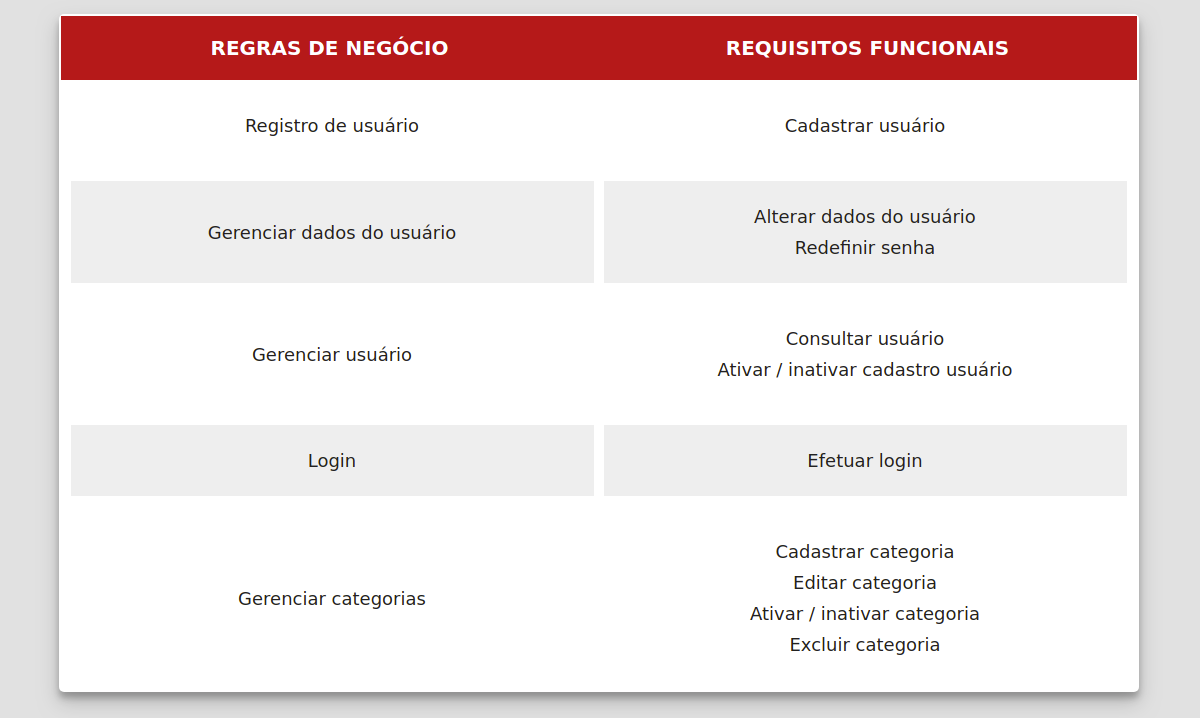
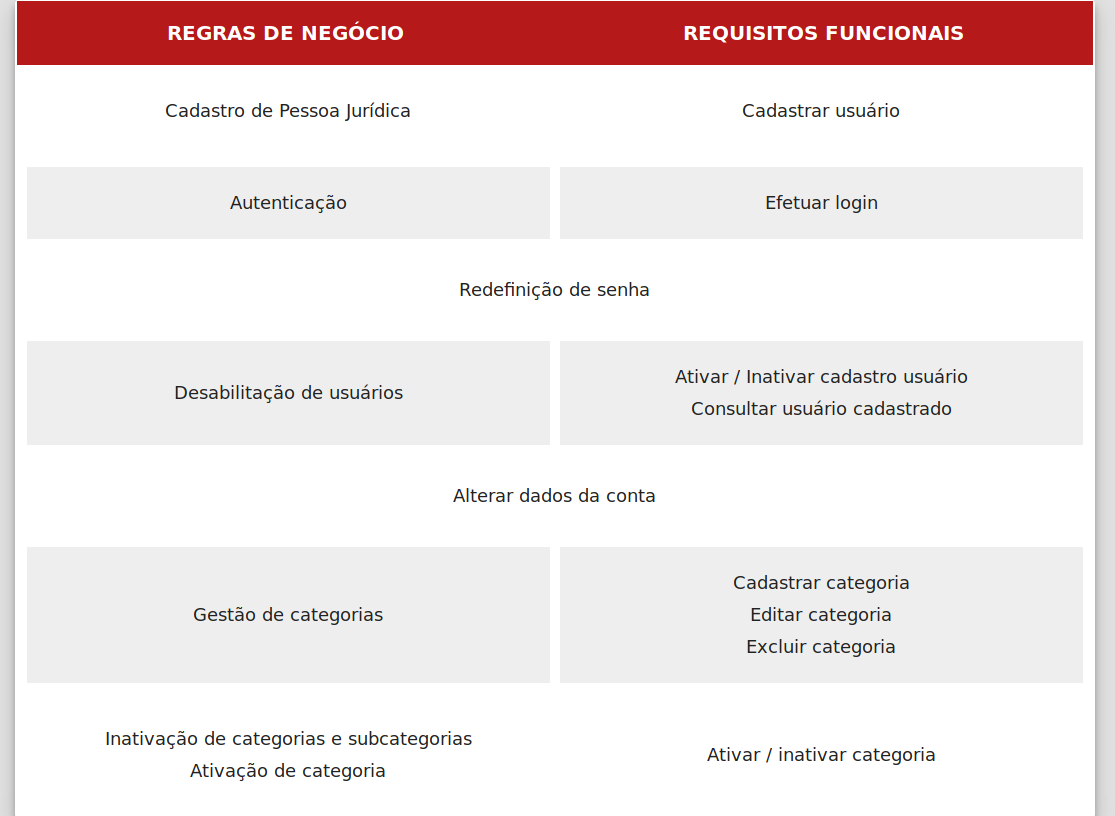
Finalizado apresentação

diff --git a/presentation/comparacao-rn-requisito/tabela-parte1.html b/presentation/comparacao-rn-requisito/tabela-parte1.html
@@ -24,42 +24,51 @@
     <tbody>
 
       <tr>
-        <td>Registro de usuário</td>
+        <td>Cadastro de Pessoa Jurídica</td>
         <td>
           <span>Cadastrar usuário</span>
         </td>
       </tr>
 
       <tr>
-        <td>Gerenciar dados do usuário</td>
-        <td>
-          <span>Alterar dados do usuário</span>
-          <span>Redefinir senha</span>
-        </td>
-      </tr>
-
-      <tr>
-        <td>Gerenciar usuário</td>
-        <td>
-          <span>Consultar usuário</span>
-          <span>Ativar / inativar cadastro usuário</span>
-        </td>
-      </tr>
-
-      <tr>
-        <td>Login</td>
+        <td>Autenticação</td>
         <td>
           <span>Efetuar login</span>
         </td>
       </tr>
 
       <tr>
-        <td>Gerenciar categorias</td>
+        <td>Redefinição de senha</td>
+      </tr>
+
+      <tr>
+        <td>Desabilitação de usuários</td>
+        <td>
+          <span>Ativar / Inativar cadastro usuário</span>
+          <span>Consultar usuário cadastrado</span>
+        </td>
+      </tr>
+
+      <tr>
+        <td>Alterar dados da conta</td>
+      </tr>
+
+      <tr>
+        <td>Gestão de categorias</td>
         <td>
           <span>Cadastrar categoria</span>
           <span>Editar categoria</span>
-          <span>Ativar / inativar categoria</span>
           <span>Excluir categoria</span>
+        </td>
+      </tr>
+
+      <tr>
+        <td>
+          <span>Inativação de categorias e subcategorias</span>
+          <span>Ativação de categoria</span>
+        </td>
+        <td>
+          <span>Ativar / inativar categoria</span>
         </td>
       </tr>
     </tbody>

diff --git a/presentation/comparacao-rn-requisito/tabela-parte2.html b/presentation/comparacao-rn-requisito/tabela-parte2.html
@@ -24,14 +24,20 @@
     <tbody>
 
       <tr>
-        <td>Gerenciar produtos</td>
+        <td>
+          <span>Cadastro de produto com ou sem vínculo a um mostruário</span>
+          <span>Reajuste de precificação do mostruário</span>
+        </td>
         <td>
           <span>Cadastrar produto</span>
         </td>
       </tr>
 
       <tr>
-        <td>Gerenciar estoque</td>
+        <td>
+          <span>Reajuste de precificação do mostruário</span>
+          <span>Gestão dos produtos em estoque</span>
+        </td>
         <td>
           <span>Editar produto</span>
         </td>
@@ -45,11 +51,19 @@
       </tr>
 
       <tr>
-        <td>Gerenciar pedido de compra em criação</td>
         <td>
-          <span>Editar pedido de compra</span>
-          <span>Descartar pedido de compra</span>
+          <span>Gestão pedido de compra em criação</span>
+          <span>Fornecedores encontrados do pedido de compra</span>
+          <span>Visibilidade das cotações do pedido de compra</span>
+          <span>Prazos dos pedidos de compra</span>
         </td>
+        <td>
+          Editar pedido de compra
+        </td>
+      </tr>
+
+      <tr>
+        <td colspan="2">Descartar pedido de compra</td>
       </tr>
     </tbody>
   </table>

diff --git a/presentation/comparacao-rn-requisito/tabela-parte3.html b/presentation/comparacao-rn-requisito/tabela-parte3.html
@@ -27,7 +27,7 @@
       </tr>
 
       <tr>
-        <td colspan="2">Notificar pedido publicado</td>
+        <td colspan="2">Notificar publicação do pedido</td>
       </tr>
 
       <tr>
@@ -43,15 +43,32 @@
       </tr>
 
       <tr>
-        <td colspan="2">Cancelar pedido publicado</td>
+        <td>
+          <span>Pesquisar produtos para cotação</span>
+          <span>Prazo da cotação</span>
+          <span>Disponibilização do métodos de entrega</span>
+          <span>Criação das cotações</span>
+          <span>Limite de cotações</span>
+        </td>
+        <td>Criar cotação</td>
       </tr>
 
       <tr>
-        <td colspan="2">Criar cotação</td>
+        <td>Notificar cotação recebida</td>
+        <td>
+          <span>Notificar cotação recebida</span>
+          <span>Visualizar cotação recebida</span>
+        </td>
       </tr>
 
       <tr>
-        <td colspan="2">Notificar cotação recebida</td>
+        <td>Aprovação da cotação</td>
+        <td>Aceitar cotação</td>
+      </tr>
+
+      <tr>
+        <td>Declínio da cotação</td>
+        <td>Recusar cotação</td>
       </tr>
 
     </tbody>

diff --git a/presentation/comparacao-rn-requisito/tabela-parte4.html b/presentation/comparacao-rn-requisito/tabela-parte4.html
@@ -23,15 +23,6 @@
     <tbody>
 
       <tr>
-        <td>Gerenciar cotações do pedido de compra</td>
-        <td>
-          <span>Visualizar cotação recebida</span>
-          <span>Aceitar cotação</span>
-          <span>Recusar cotação</span>
-        </td>
-      </tr>
-
-      <tr>
         <td>Notificar cotação aceita</td>
         <td>
           <span>Aceitar cotação</span>

diff --git a/presentation/comparacao-rn-requisito/main.css b/presentation/comparacao-rn-requisito/main.css
@@ -84,4 +84,5 @@ tbody tr td:nth-child(even) {
 
 td span {
   margin: 5px 0;
+  text-align: center;
 }
